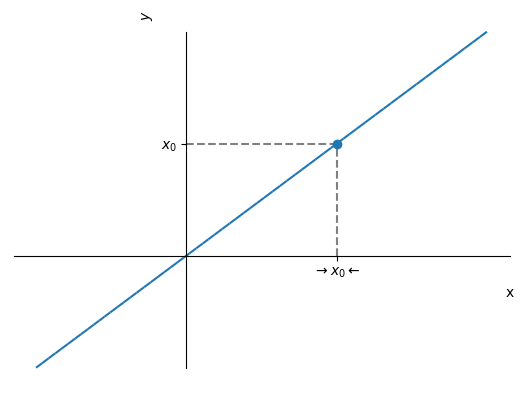
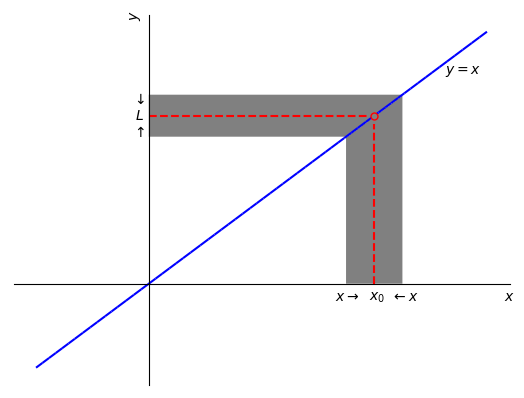
*: material sobre noção de limite

diff --git a/src/CalculoI/cap_lim/cap_lim.tex b/src/CalculoI/cap_lim/cap_lim.tex
@@ -4,12 +4,14 @@
 \thispagestyle{fancy}
 
 \ifispython
+\begin{obs}\label{obs:cap_lim_python}
 Ao longo deste capítulo, ao apresentarmos códigos \href{https://www.python.org/}{Python} estaremos assumindo os seguintes comandos prévios:
 \begin{verbatim}
 from sympy import *
 init_printing()
 var('x')
 \end{verbatim}
+\end{obs}
 \fi
 
 \section{Noção de limites}\label{cap_lim_sec_lim}
@@ -18,7 +20,14 @@ Seja $f$ uma função definida em um intervalo aberto em torno de um dado ponto 
 \begin{equation}
   \lim_{x\to x_0} f(x) = L
 \end{equation}
-e dizemos que o limite da função $f$ é $L$ quando $x$ tende a $x_0$.
+e dizemos que o limite da função $f$ é $L$ quando $x$ tende a $x_0$. Veja a Figura \ref{fig:lim}.
+
+\begin{figure}[H]
+  \centering
+  \includegraphics[width=0.7\textwidth]{./cap_lim/dados/fig_lim/fig_lim}
+  \caption{Ilustração da noção de limite de uma função.}
+  \label{fig:lim}
+\end{figure}
 
 \begin{ex}\label{ex:lim0}
   Consideremos a função
@@ -62,11 +71,11 @@ limit((x**2-1)*(x-2)/((x-1)*(x-2)),x,0)
 
 \subsection{Limites da função constante e da função identidade}
 
-Da noção de limite, temos
+Da noção de limite, podemos inferir que
 \begin{equation}
   \lim_{x\to x_0} k = k,
 \end{equation}
-seja qual for a constante $k$. Vejamos a Figura \ref{fig:lim_funk}.
+seja qual for a constante $k$. Veja a Figura \ref{fig:lim_funk}.
 
 \begin{figure}[H]
   \centering
@@ -93,7 +102,7 @@ seja qual for o ponto $x_0$. Vejamos a Figura \ref{fig:lim_funid}.
 \begin{figure}[H]
   \centering
   \includegraphics[width=0.7\textwidth]{./cap_lim/dados/fig_lim_funid/fig_lim_funid}
-  \caption{Esboço do gráfico da função identidade $f(x) = x$.}
+  \caption{Noção de limite para a função identidade $f(x)=x$.}
   \label{fig:lim_funid}
 \end{figure}
 
@@ -105,6 +114,68 @@ seja qual for o ponto $x_0$. Vejamos a Figura \ref{fig:lim_funid}.
   \item $\displaystyle \lim_{x\to \pi} x = \pi$
   \end{enumerate}
 \end{ex}
+
+\subsection*{Exercícios resolvidos}
+
+\begin{exeresol}
+  Estime o valor do limite
+  \begin{equation}
+    \lim_{x\to 1} e^x.
+  \end{equation}
+\end{exeresol}
+\begin{resol}
+  Da noção de limite, podemos buscar inferir o limite de uma função em um ponto $x_0$, computando seus valores próximos deste ponto. Por exemplo, construímos a seguinte tabela:
+  
+  \begin{tabular}{r|ccc|c|ccc}
+    $x$ & $0,9$ & $0,99$ & $0,999$ & $\rightarrow 1 \leftarrow$ & $1,0001$ & $1,001$ & $1,01$\\\hline
+    $f(x)$ & $2,46$ & $2,69$ & $2,72$ & $\rightarrow 2,72 \leftarrow$ & $2,72$ & $2,72$ & $2,75$
+  \end{tabular}
+  
+  Com isso, inferimos que
+  \begin{equation}
+    \lim_{x\to 1} e^x \approx 2,72.
+  \end{equation}
+  Mais adiante, veremos que $\lim_{x\to 1} e^x = e \approx 2,718281828459045 ...$
+\end{resol}
+
+\begin{exeresol}
+  Considere que uma dada função $f$ tenha o seguinte esboço de gráfico:
+
+  \begin{center}
+    \includegraphics[width=0.7\textwidth]{./cap_lim/dados/fig_exeresol_nocaolim/fig_exeresol_nocaolim}
+  \end{center}
+
+  Então, infira o valores de
+  \begin{enumerate}[a)]
+  \item $\displaystyle \lim_{x\to -2} f(x)$
+  \item $\displaystyle \lim_{x\to -1} f(x)$
+  \item $\displaystyle \lim_{x\to 1} f(x)$
+  \end{enumerate}
+\end{exeresol}
+\begin{resol}
+  \begin{enumerate}[a)]
+  \item $\displaystyle \lim_{x\to -2} f(x)$
+
+    Para valores suficientemente próximos de $-2$ e a direita de $-2$ (i.e. $x>-2$), podemos observar que $f(x)=1$. Para tais valores de $x$ a esquerda de $-2$ (i.e. $x<-2$), vemos que os valores de $f(x)$ tornam-se próximos de $1$. Isto é, temos que os valores de $f(x)$ podemos ser tomados arbitrariamente próximos de $L=1$, se tomarmos $x$ suficientemente próximo de $-2$. Concluímos que
+    \begin{equation}
+      \lim_{x\to -2} = 1.
+    \end{equation}
+
+  \item $\displaystyle \lim_{x\to -1} f(x)$
+
+    Mesmo sendo $f(-1)=2$, observamos que os valores de $f(x)$ podem ser tomados arbitrariamente próximos de $x_0=1$, se escolhemos valores de $x$ suficientemente próximos de $x_0=-1$. Logo,
+    \begin{equation}
+      \lim_{x\to -1} f(x) = 1.
+    \end{equation}
+
+    \item $\displaystyle \lim_{x\to 1} f(x)$
+
+      Aqui, para valores de $x$ suficientemente próximos de $x_0=1$ e a esquerda ($x<1$), vemos que os valores de $f(x)$ são próximos de $L=2$. Entretanto, para valores de $x$ suficientemente próximos de $x_0=1$ e a direira ($x>1$), temos que os valores de $f(x)$ são próximos de $L=1$. Ou seja, não é possível escolher um valor $L$ tal que $f(x)$ esteja arbitrariamente próxima ao tomarmos $x$ suficientemente próximo de $x_0=1$, pois $L$ dependerá de $x$ estar a esquerda ou a direita de do ponto $x_0 = 1$. Conluímos que este limite não existe, e escrevemos
+      \begin{equation}
+        \not\exists\lim_{x\to 1} f(x).
+      \end{equation}
+  \end{enumerate}
+\end{resol}
 
 \subsection*{Exercícios}
 

diff --git a/src/CalculoI/cap_lim/dados/fig_lim/main.py b/src/CalculoI/cap_lim/dados/fig_lim/main.py
@@ -1,0 +1,33 @@
+from sympy import *
+var('x,y', real=True)
+
+p = plot(x**2, (x,-1,3), line_color="blue", show=False)
+q = plot(-1,(x,-1,3),line_color="none",show=False)
+p.extend(q)
+x0 = 2
+tol = 0.25
+q = plot_implicit(y<x**2,(x,x0-tol,x0+tol),(y,0,8),
+                  line_color="gray",show=False)
+p.extend(q)
+q = plot_implicit(x<sqrt(y),(x,0,3),(y,(x0-tol)**2,(x0+tol)**2),
+                  line_color="gray",show=False)
+p.extend(q)
+p.xlabel = '$x$'
+p.ylabel = '$y$'
+p.save('fig_lim.png')
+
+fig = p._backend.fig
+ax = fig.axes[0]
+ax.set_yticks([])
+ax.set_xticks([])
+ax.grid()
+ax.text(x0-tol-0.1,-0.4,"$x\\rightarrow$")
+ax.text(x0+tol-0.1,-0.4,"$\\leftarrow x$")
+ax.plot([x0,x0],[0,x0**2-0.2],ls='--',color="red")
+ax.plot([0,x0-0.05],[x0**2,x0**2],ls='--',color="red")
+ax.text(x0-0.05,-0.4,"$x_0$")
+ax.text(-0.15,(x0-tol)**2,"$\\uparrow$")
+ax.text(-0.15,(x0+tol)**2-0.3,"$\\downarrow$")
+ax.text(-0.15,x0**2-0.1,"$L$")
+ax.plot([x0],[x0**2],marker="o",markersize=5,markeredgecolor="red",markerfacecolor="gray")
+fig.savefig('fig_lim.png', bbox_inches='tight')

diff --git a/src/CalculoI/cap_lim/dados/fig_lim_funid/main.py b/src/CalculoI/cap_lim/dados/fig_lim_funid/main.py
@@ -1,0 +1,32 @@
+from sympy import *
+var('x,y', real=True)
+
+p = plot(x, (x,-1,3), line_color="blue", show=False)
+x0 = 2
+tol = 0.25
+q = plot_implicit(y<x,(x,x0-tol,x0+tol),(y,0,8),
+                  line_color="gray",show=False)
+p.extend(q)
+q = plot_implicit(x<y,(x,0,3),(y,(x0-tol),(x0+tol)),
+                  line_color="gray",show=False)
+p.extend(q)
+p.xlabel = '$x$'
+p.ylabel = '$y$'
+p.save('fig_lim_funid.png')
+
+fig = p._backend.fig
+ax = fig.axes[0]
+ax.set_yticks([])
+ax.set_xticks([])
+ax.grid()
+ax.text(x0-tol-0.1,-0.2,"$x\\rightarrow$")
+ax.text(x0+tol-0.1,-0.2,"$\\leftarrow x$")
+ax.plot([x0,x0],[0,x0-0.1],ls='--',color="red")
+ax.plot([0,x0-0.05],[x0,x0],ls='--',color="red")
+ax.text(x0-0.05,-0.2,"$x_0$")
+ax.text(-0.15,(x0-tol),"$\\uparrow$")
+ax.text(-0.15,(x0+tol)-0.1,"$\\downarrow$")
+ax.text(-0.125,x0-0.05,"$L$")
+ax.plot([x0],[x0],marker="o",markersize=5,markeredgecolor="red",markerfacecolor="gray")
+ax.text(2.5+0.125,2.5,"$y=x$")
+fig.savefig('fig_lim_funid.png', bbox_inches='tight')

diff --git a/src/CalculoI/cap_lim/dados/fig_exeresol_nocaolim/main.py b/src/CalculoI/cap_lim/dados/fig_exeresol_nocaolim/main.py
@@ -1,0 +1,22 @@
+from sympy import *
+var('x', real=True)
+
+p = plot(-3, (x,-3,3), line_color="none", show=False)
+q = plot(3,(x,-3,3),line_color="none",show=False)
+p.extend(q)
+p.xlabel = '$x$'
+p.ylabel = '$y$'
+p.save('fig_exeresol_nocaolim.png')
+
+fig = p._backend.fig
+ax = fig.axes[0]
+ax.grid()
+ax.plot([-3,-2],[-1,1],color="blue")
+ax.plot([-2,-1],[1,1],color="blue")
+ax.plot([-1,1],[1,2],color="blue")
+ax.plot([1,3],[1,3],color="blue")
+ax.plot([-1],[1],marker='o',markersize=4,markeredgecolor="blue",markerfacecolor="white")
+ax.plot([-1],[2],marker='o',markersize=4,markeredgecolor="blue",markerfacecolor="blue")
+ax.plot([1],[2],marker='o',markersize=4,markeredgecolor="blue",markerfacecolor="white")
+ax.plot([1],[1],marker='o',markersize=4,markeredgecolor="blue",markerfacecolor="blue")
+fig.savefig('fig_exeresol_nocaolim.png', bbox_inches='tight')
